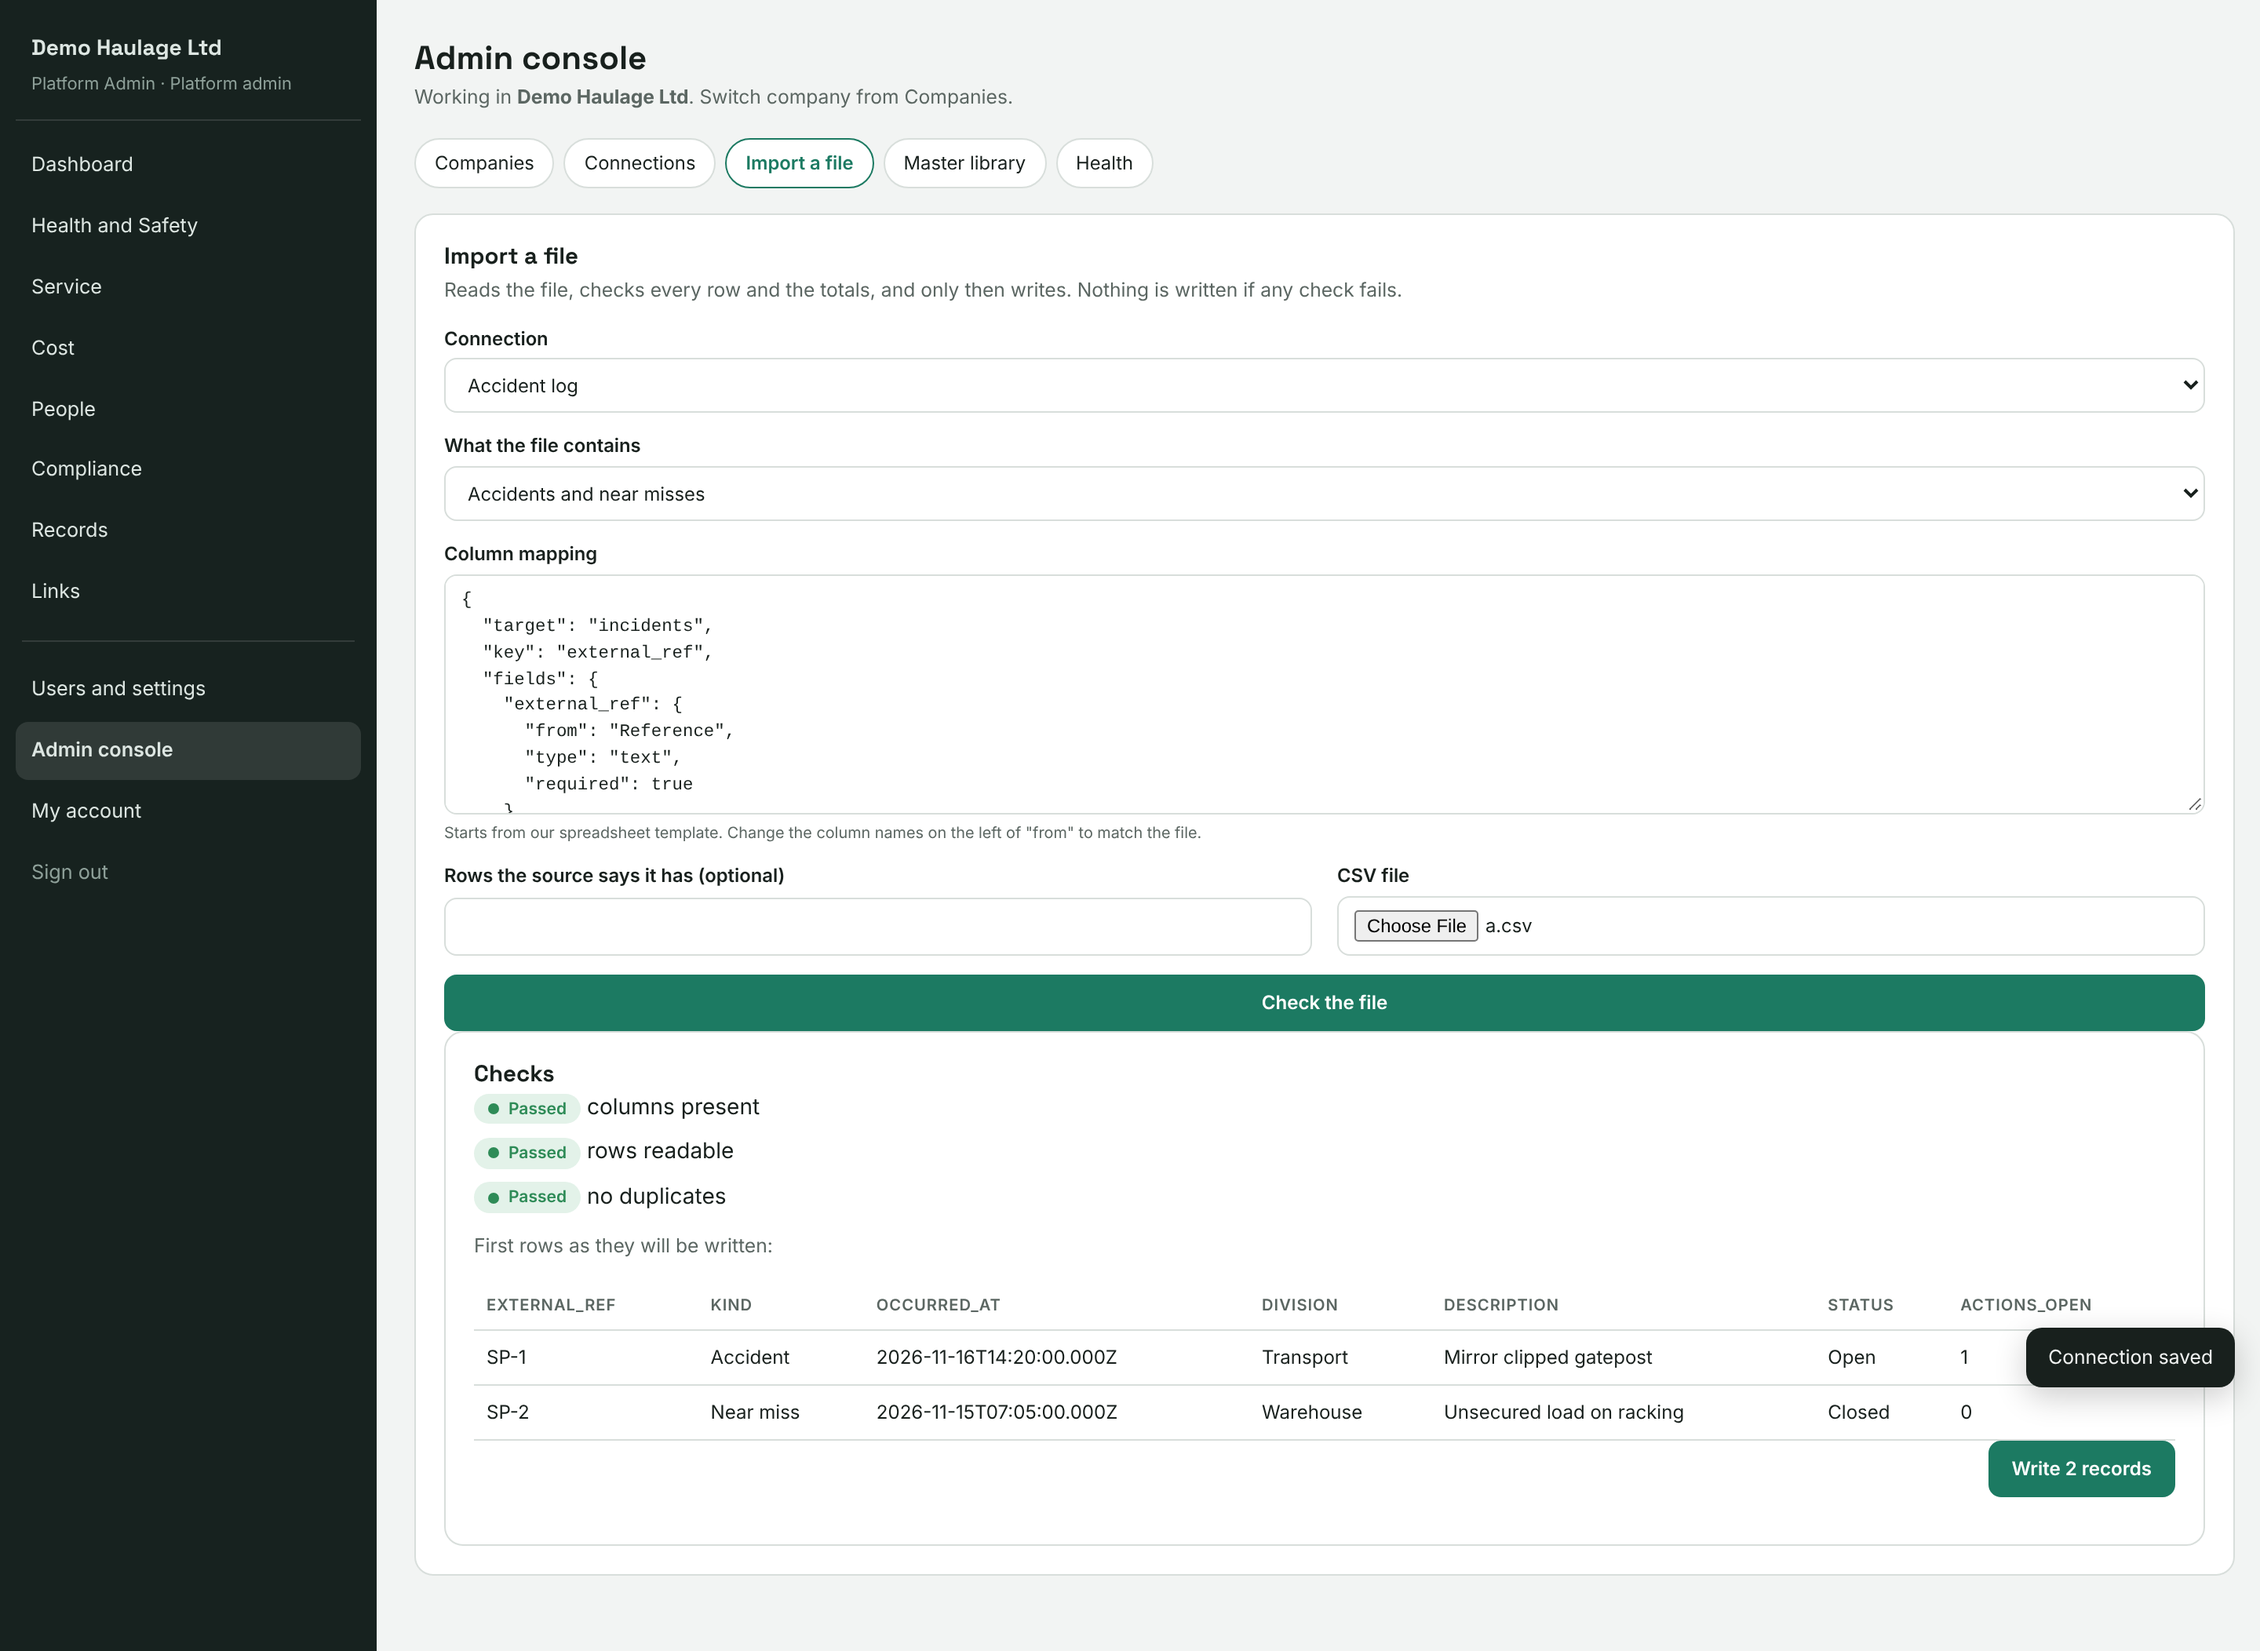
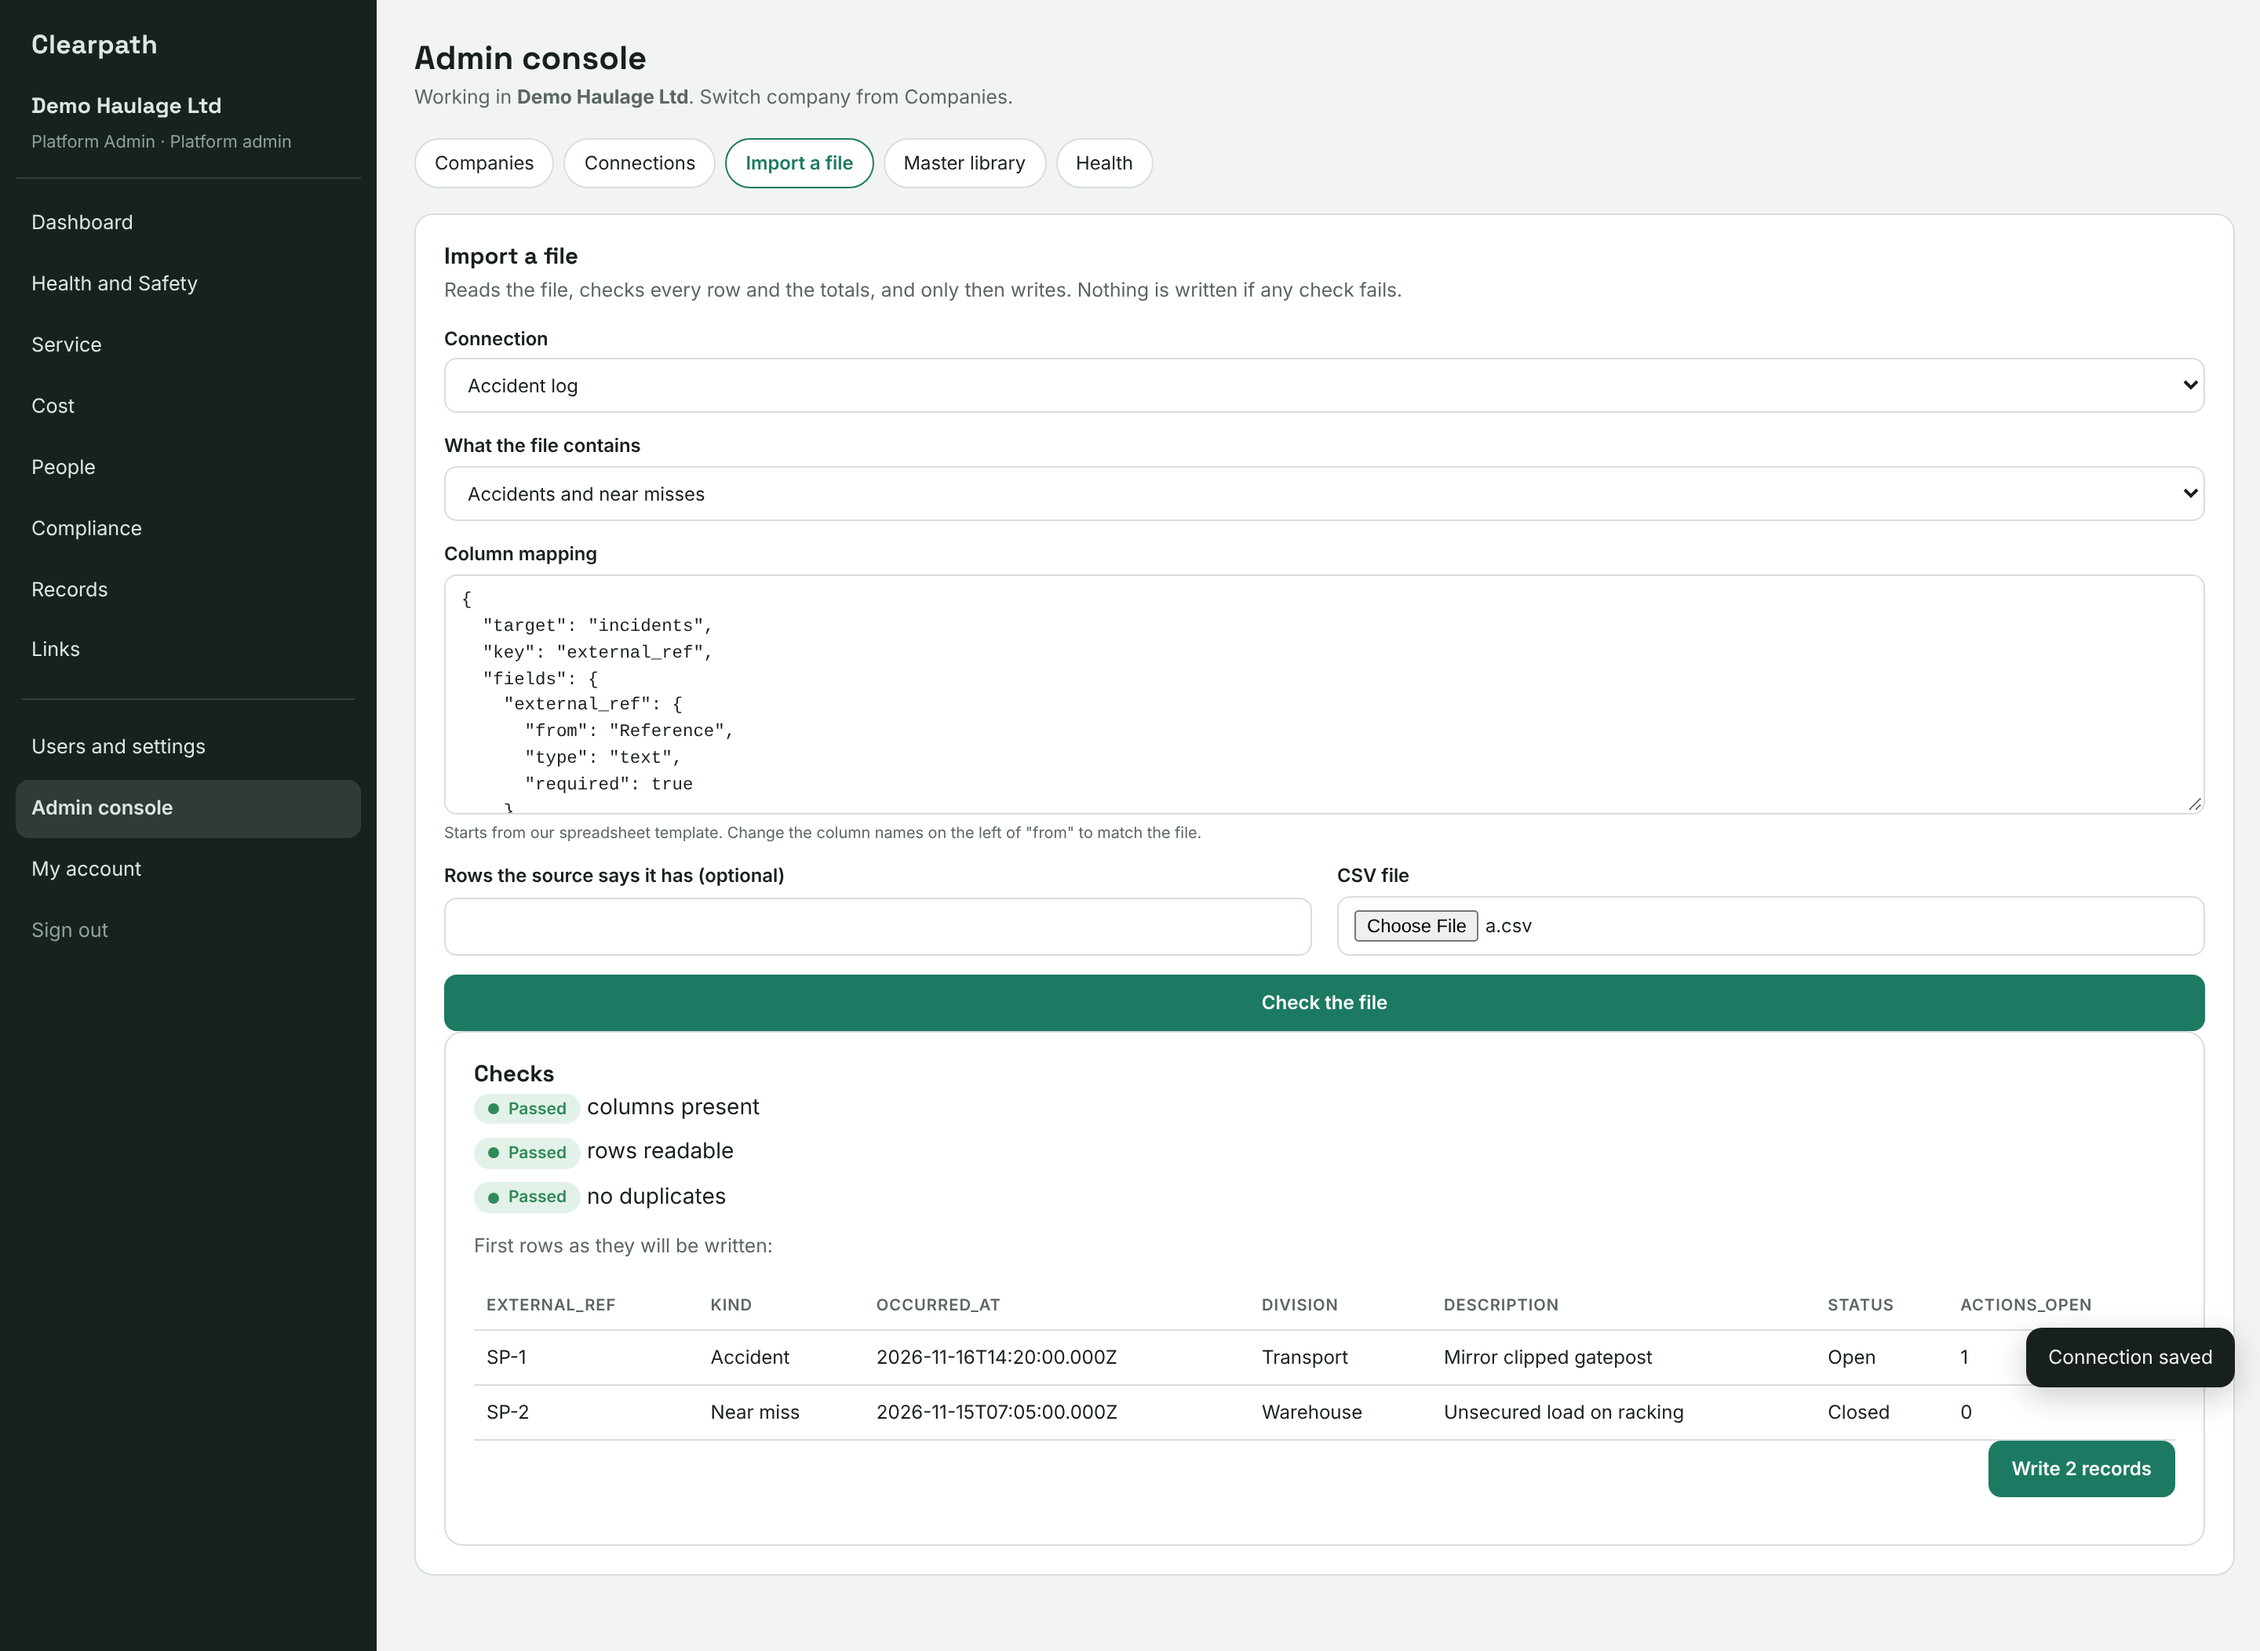
Name the system Clearpath across the screens and authenticator label
Claude-Session: https://claude.ai/code/session_01V3wA9BU4mSKKDpuMCeLu1G

Changed region(s): [[0.0, 0.4016, 0.1562, 0.5561], [0.0, 0.0, 0.125, 0.2163], [0.0, 0.278, 0.0625, 0.3398]]

diff --git a/portal/web/app/js/app.js b/portal/web/app/js/app.js
@@ -16,7 +16,7 @@ export const isManager = () => ctx.isAdmin || ['director', 'operations', 'consul
 // ---------------------------------------------------------------- sign-in
 function signInScreen(msg) {
   app.innerHTML = `<main class="auth"><form class="card auth-card" id="signin" novalidate>
-    <h1>Sign in</h1><p class="sub">Operations platform</p>
+    <p class="brand">Clearpath</p><h1>Sign in</h1>
     <label class="fld" for="email"><span>Email</span><input id="email" type="email" autocomplete="username" required></label>
     <label class="fld" for="password"><span>Password</span><input id="password" type="password" autocomplete="current-password" required></label>
     <p class="form-error" role="alert" ${msg ? '' : 'hidden'}>${esc(msg || '')}</p>
@@ -43,7 +43,7 @@ async function twoFactor() {
   const verified = factors.find(f => f.status === 'verified');
   if (verified) {
     app.innerHTML = `<main class="auth"><form class="card auth-card" id="mfa" novalidate><h1>Enter your code</h1>
-      <p class="sub">Open your authenticator app and enter the six-digit code for the operations platform.</p>
+      <p class="sub">Open your authenticator app and enter the six-digit code for Clearpath.</p>
       <label class="fld" for="code"><span>Code</span><input id="code" inputmode="numeric" autocomplete="one-time-code" maxlength="6" required></label>
       <p class="form-error" role="alert" hidden></p><button class="btn primary wide" type="submit">Sign in</button>
       <button class="btn ghost wide" type="button" id="cancel">Use a different account</button></form></main>`;
@@ -102,7 +102,7 @@ async function start() {
   if (!auth.signedIn()) return signInScreen();
   if (auth.aal() !== 'aal2') return twoFactor().catch(x => signInScreen(x.message));
   let p = await rpc('my_profile');
-  if (!p) return blocked('There is no operations platform account for this email. Ask your director to invite you.');
+  if (!p) return blocked('There is no Clearpath account for this email. Ask your director to invite you.');
   if (p.status === 'invited') { await rpc('accept_invitation'); p = await rpc('my_profile'); }
   if (p.status === 'suspended') return blocked('Your account has been suspended. Contact your director if you think this is a mistake.');
   ctx.profile = p; ctx.isAdmin = p.role === 'platform_admin';
@@ -128,7 +128,7 @@ export async function openCompany(id) {
 }
 
 function blocked(msg) {
-  app.innerHTML = `<main class="auth"><div class="card auth-card"><h1>Can't open the platform</h1><p>${esc(msg)}</p>
+  app.innerHTML = `<main class="auth"><div class="card auth-card"><h1>Can't open Clearpath</h1><p>${esc(msg)}</p>
     <button class="btn ghost wide" id="out">Sign out</button></div></main>`;
   $('#out').onclick = async () => { await auth.signOut(); signInScreen(); };
 }
@@ -152,7 +152,7 @@ function layout(active) {
     `<a class="nav-item ${active === 'me' ? 'on' : ''}" href="#/me">My account</a>`,
   ].join('');
   app.innerHTML = `<div class="shell">
-    <nav class="side" aria-label="Menu"><div class="co"><b>${esc(ctx.dash?.company || (ctx.isAdmin ? 'All companies' : p.company || ''))}</b>
+    <nav class="side" aria-label="Menu"><p class="brand side-brand">Clearpath</p><div class="co"><b>${esc(ctx.dash?.company || (ctx.isAdmin ? 'All companies' : p.company || ''))}</b>
       <span>${esc(p.name)} · ${esc(roleName(p.role))}${p.demo_view ? ' · demo view' : ''}</span></div>
       ${items}<div class="sep"></div>${manage}<button class="nav-item btn-link" id="signout" type="button">Sign out</button></nav>
     <main class="main" id="main" tabindex="-1"><p class="loading">Loading…</p></main></div>`;

diff --git a/portal/web/app/styles.css b/portal/web/app/styles.css
@@ -1,4 +1,4 @@
-/* Operations platform. Layout: dark side menu + content column; cards for each section. */
+/* Clearpath. Layout: dark side menu + content column; cards for each section. */
 :root{
   --bg:#F2F4F3; --panel:#FFFFFF; --ink:#18201D; --muted:#5B6662; --line:#D8DEDB; --soft:#E9EEEC;
   --nav:#17221F; --nav-ink:#DDE6E2; --nav-muted:#8FA19A; --accent:#1C7A62; --accent-ink:#FFFFFF;
@@ -118,3 +118,6 @@ dialog.dlg .actions{display:flex;justify-content:flex-end;gap:8px}
 .toast{background:var(--ink);color:var(--bg);padding:10px 14px;border-radius:10px;font-size:.88rem;max-width:380px;box-shadow:0 6px 20px #0003}
 .toast-error{background:var(--red);color:#fff}
 @media (prefers-reduced-motion:no-preference){.tile,.attn a,.btn{transition:border-color .15s}}
+.brand{font-family:var(--display);font-weight:700;font-size:1.15rem;letter-spacing:.01em;color:var(--accent);margin:0}
+.side-brand{color:var(--nav-ink);padding:0 10px 10px;font-size:1.2rem}
+@media (max-width:900px){.side-brand{flex-basis:100%}}

diff --git a/portal/web/app/index.html b/portal/web/app/index.html
@@ -3,7 +3,7 @@
 <head>
 <meta charset="utf-8">
 <meta name="viewport" content="width=device-width, initial-scale=1, viewport-fit=cover">
-<title>Operations Platform</title>
+<title>Clearpath</title>
 <link rel="preconnect" href="https://fonts.googleapis.com">
 <link rel="stylesheet" href="https://fonts.googleapis.com/css2?family=Inter:wght@400;500;600;700&family=Space+Grotesk:wght@500;600;700&display=swap">
 <link rel="stylesheet" href="/web/app/styles.css">
